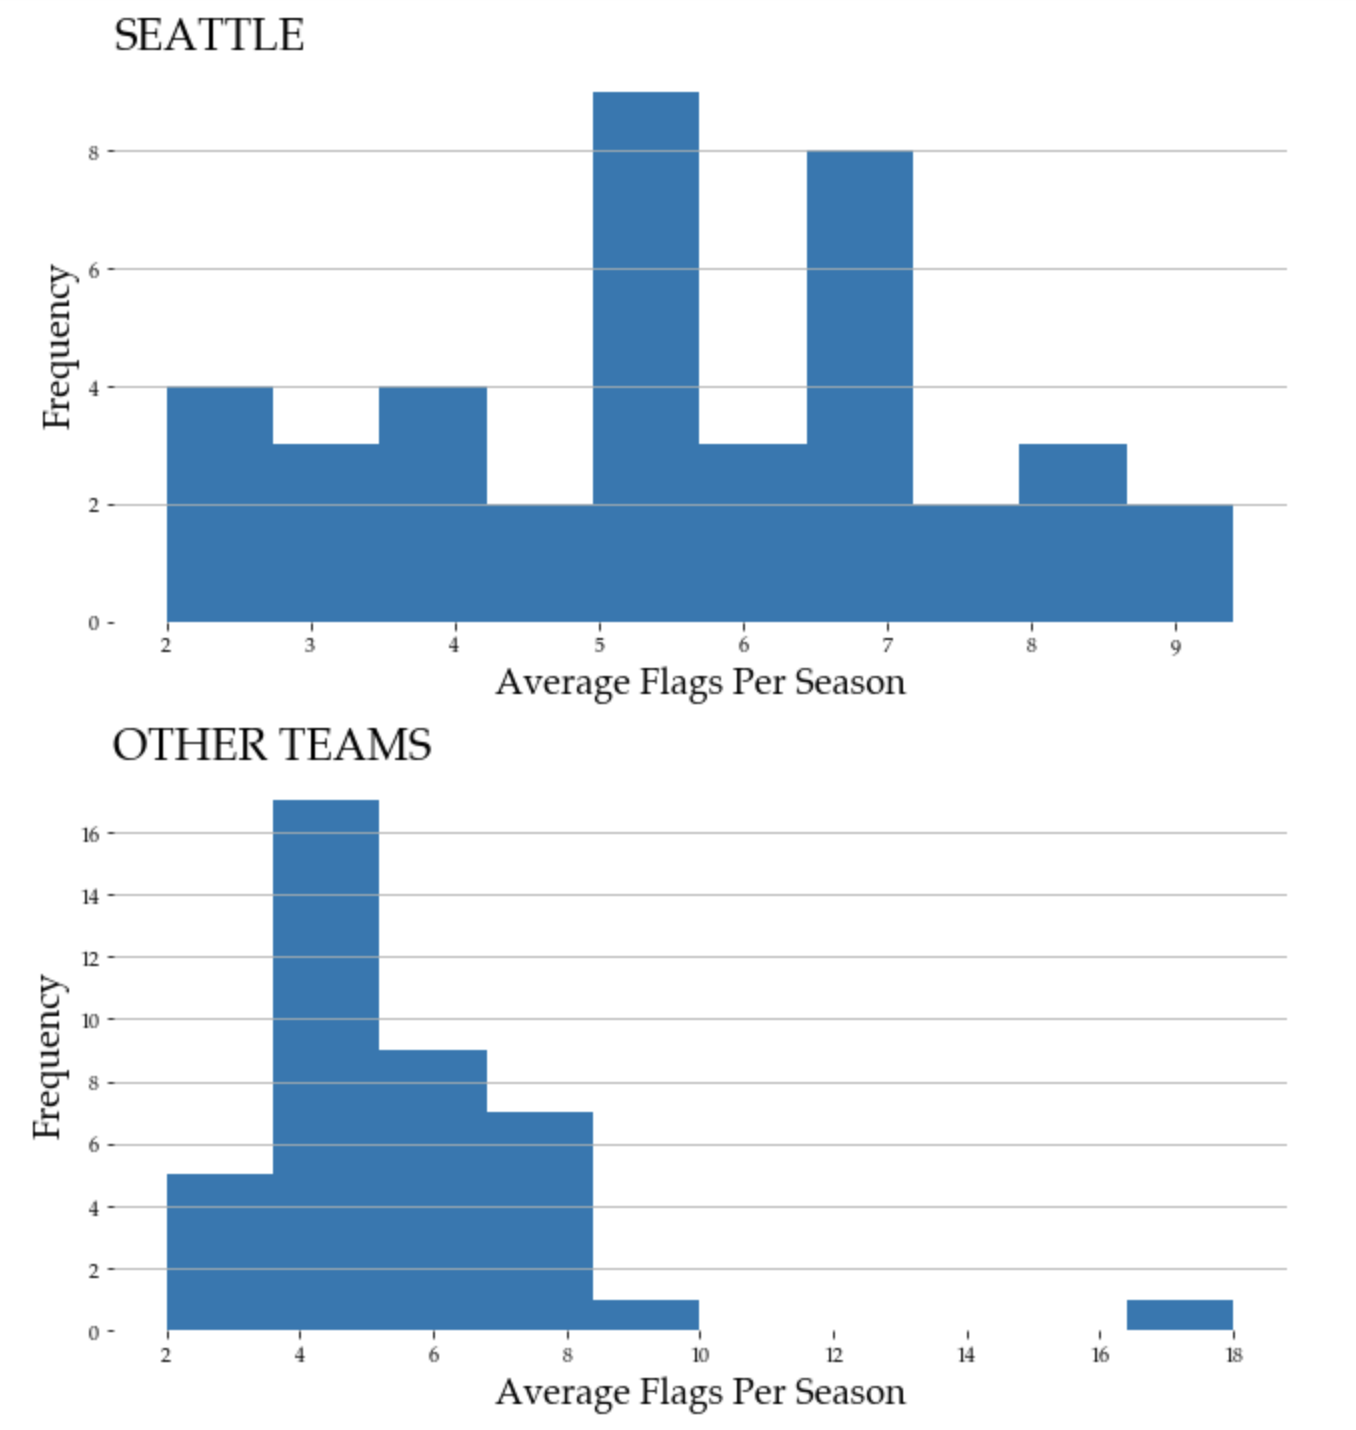
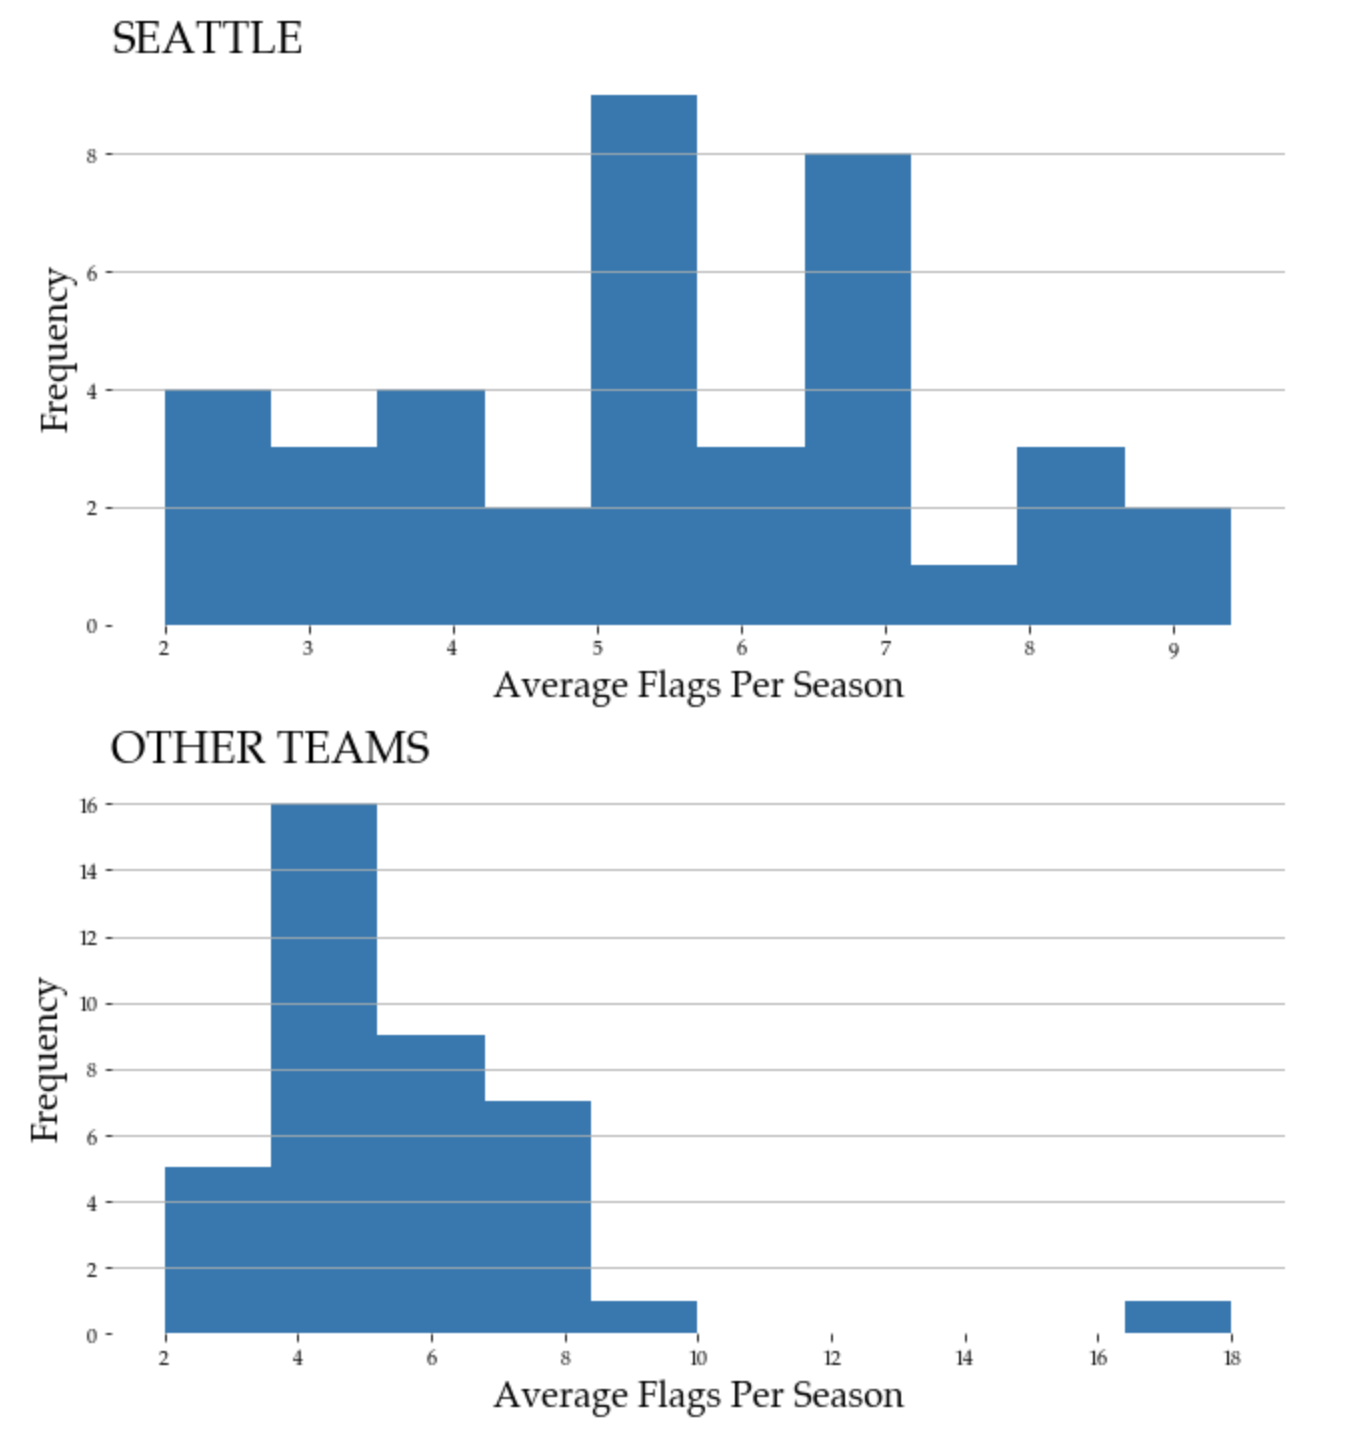
swapped histograms, edits for conciseness

diff --git a/README.md b/README.md
@@ -29,16 +29,16 @@ The answer is to look not at the team as a whole, but to look at the players ind
 
 ![histograms](images/avg_histograms.png)
 
-Of note is the statistical outlier on the bottom graph; this is Brandon Browner, whose accrued an average of 18 penalties per season when playing for other teams (and 9 per season when playing for Seattle). Even when excluding Browner from both sets of number, the numbers show that players who have a record with other teams as well as the Seahawks get called for more fowls per season when playing for other teams. A hypothesis test tells us that the difference between the average penalties when on and off of Seattle’s roster is not statistically significant, meaning that the difference between the two is likely due to random chance, but even at no difference between the two, there is no evidence here to suggest a systematic bias against Seattle. 
-
-
-The other piece to this analysis that I conduct to shed light on the question is that of penalties accrued while playing under different coaches around the league. It would be ideal to look at penalties under Seahawks coaches when they moved teams, however, as all but one year of my data has Pete Carroll as the head coach, and does not include Carroll coaching any other team in the league (he was coaching at the collegiate level prior to taking the job with Seattle), this is not possible. I can look to see how much variation exists between different head coaches, which would provide at least some evidence of whether coaching style can be a reasonable explanation for the relatively high number of penalties that Seattle has. 
+Of note is the statistical outlier on the bottom graph; this is Brandon Browner, whose accrued an average of 18 penalties per season when playing for other teams (and 9 per season when playing for Seattle). When I include Browner in the analysis these numbers show that players who have a record with other teams as well as the Seahawks get called for more fowls per season when playing for other teams, but just barely. Average penalties for Seattle for these players is 5.4, vs 5.7 for other teams. If we exclude Browner from both categories, the remaining players do get more penalized when playing for Seattle, but just by a hair; there is practically no difference. A hypothesis test tells us that even the bigger difference when Browner is included between the average penalties when on and off of Seattle’s roster is not statistically significant, meaning that the difference between the two is likely due to random chance (which comes as no surprise given the small margin), but even at no difference between the two, there is no evidence here to suggest a systematic bias against Seattle. 
 
 The other exploration that can be done of the data available to shed light on the question is to attempt to get a sense for how much coaching effects the number of penalties accrued. I would expect that coaching would have some effect on penalty accrual as well. Since coaches, like players can move from team to team, we could expect to see changes in penalty trends when coaching staff changes. That is if a highly penalized team’s coach moves to another team, the penalties would follow the coach and not stay with a team. If however the penalties tend to stay with the team and *not* follow the coach, this could be a sign that there may be some bias for or against certain teams in how penalties calls are made. Again this would not be a smoking gun, but rather a warning sign that further research is needed. 
+
+It would be ideal to look at penalties under Seahawks coaches when they moved teams, however, as all but one year of available data has Pete Carroll as the head coach, and does not include Carroll coaching any other team in the league (he was coaching at the collegiate level prior to taking the job with Seattle), this is not possible. I have to settle for inferring conclusions from a more general look at coaching influence. 
 
 To address this issue, I look at a measure of the discrepancy in the number of penalties per season for organizational teams vs the same metric for all teams under a given head coach. For example the variation across all seasons for the Philadelphia Eagles vs variation across whichever team is coached by Andy Reid, which would include the Eagles for some seasons and the Kansas City Chiefs for others. If there is bias against teams present, we could expect to see higher discrepancies from season to season for teams by location than for teams under given coaches. 
 
 What I found is that the deviation in seasonal penalties is lower across teams under the same head coach than teams by location. This difference is not large enough to be statistically significant however, the likelihood that the difference seen is just due to random variation rather than coaching having a significant impact on penalties is 77.8%. 
+
 
 
 ## Conclusions
